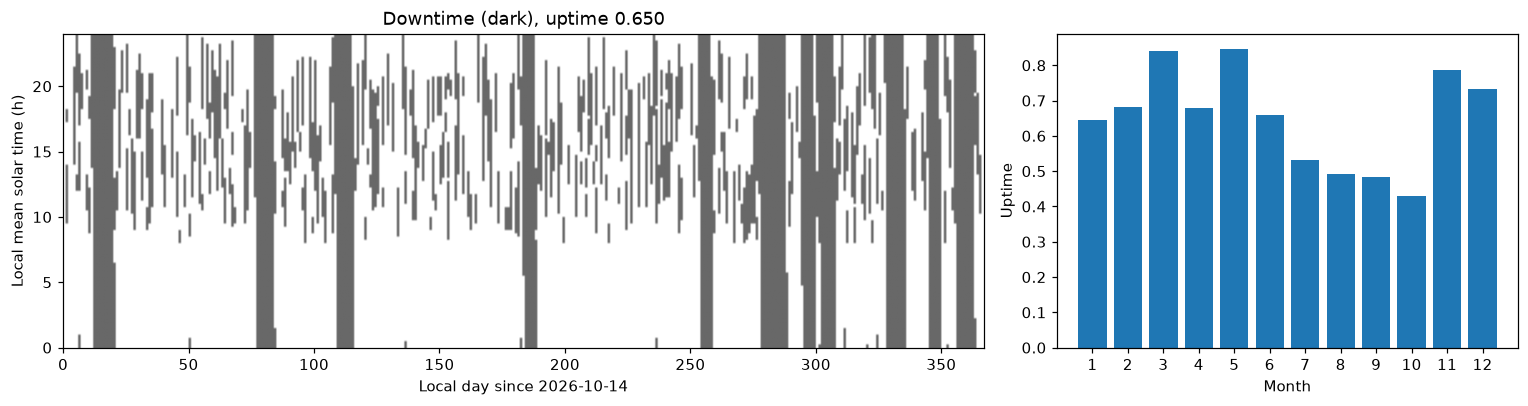
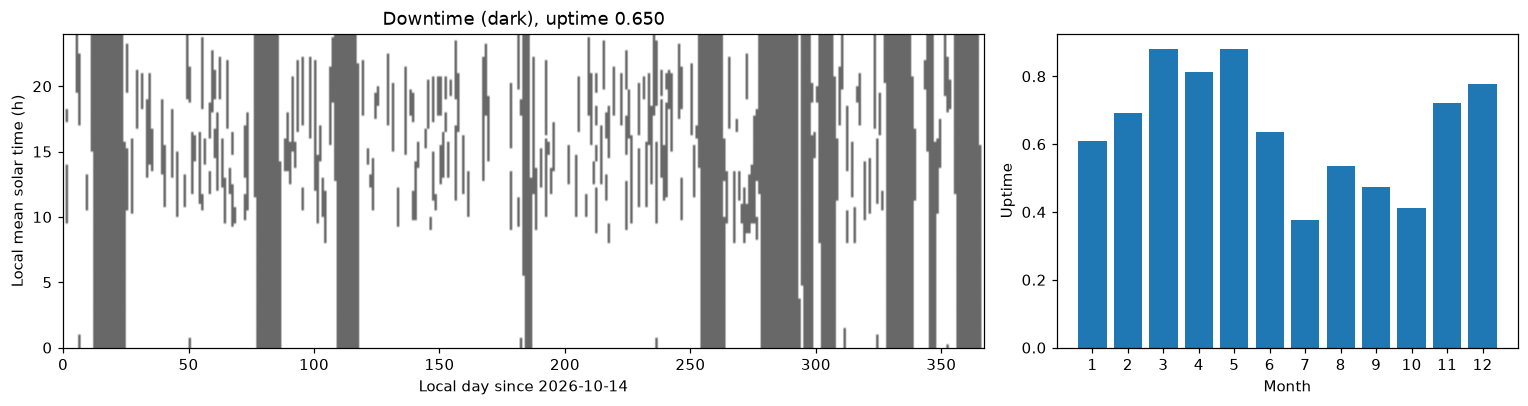
SO downtime: 75/25 outage-interruption split, 3-14 day outages

diff --git a/analysis/so_report/report.html b/analysis/so_report/report.html
@@ -26,13 +26,13 @@ mean of that crossing.</li>
 <li>Pointings are precessed (IAU 2006) from the mean equator and equinox of one epoch, mid-way through
 the year, to ICRS; over a multi-year survey this drifts by ~0.014&deg; per year. Refraction (~0.01&deg;
 at 40&deg; elevation), nutation and aberration (&lt;0.006&deg;) are ignored.</li>
-<li>Downtime: 65% uptime by default, of which 60% of the lost time is in ~week-long outages
-(5&ndash;9 days, three times more likely to start in June&ndash;September) and the rest in 1&ndash;6&nbsp;h
+<li>Downtime: 65% uptime by default, of which 75% of the lost time is in long outages
+(3&ndash;14 days, three times more likely to start in June&ndash;September) and the rest in 1&ndash;6&nbsp;h
 interruptions starting between 08:00 and 20:00 local time. Visits overlapping downtime are dropped. The
 7-day ObsTable diagnostics above the yearly plots use no downtime. No sun/moon avoidance.</li>
 <li>The az 30&ndash;150&deg; / 210&ndash;330&deg; throws limit coverage to roughly Dec &minus;59&deg; to
 +21&deg; (plus tube offsets), narrower than the full 40&deg;-elevation ring (&minus;73&deg; to +27&deg;).</li>
 </ul>
-<h2>Run summary</h2><table><tr><th>Mode</th><td>full</td></tr><tr><th>Resolution (deg) / sample interval (s)</th><td>0.5 / 0.250</td></tr><tr><th>First day scan side</th><td>east</td></tr><tr><th>Precession epoch (MJD) / uptime / downtime seed</th><td>61509.6 / 0.65 / 0</td></tr><tr><th>Tubes</th><td>0, 1, 2, 3, 4, 5, 6, 7, 8, 9, 10, 11, 12</td></tr><tr><th>Start / days</th><td>2026-10-14 / 7</td></tr><tr><th>ObsTable rows</th><td>10,389,751</td></tr><tr><th>Observed Dec range (deg)</th><td>-63.2 to 24.2</td></tr><tr><th>Per tube visit: median duration (min) / exposure (s) / passes</th><td>4.2 / 3.8 / 3.0</td></tr><tr><th>Fraction of observed (tube, pixel) seen on both crossings</th><td>0.955</td></tr><tr><th>LF: daily sky fraction mean (10-90%), no downtime / downtime</th><td>0.546 (0.457-0.635) / 0.369 (0.000-0.625)</td></tr><tr><th>LF: days per year observed (10/50/90% of area), no downtime / downtime</th><td>366 / 366 / 366 / 225 / 234 / 243</td></tr><tr><th>LF: revisit gap with downtime, median / 90% / 99% / max (days)</th><td>1.0 / 2.0 / 10.0 / 25.9</td></tr><tr><th>MF: daily sky fraction mean (10-90%), no downtime / downtime</th><td>0.559 (0.479-0.639) / 0.382 (0.000-0.632)</td></tr><tr><th>MF: days per year observed (10/50/90% of area), no downtime / downtime</th><td>366 / 366 / 366 / 231 / 238 / 247</td></tr><tr><th>MF: revisit gap with downtime, median / 90% / 99% / max (days)</th><td>1.0 / 2.0 / 10.0 / 19.9</td></tr><tr><th>UHF: daily sky fraction mean (10-90%), no downtime / downtime</th><td>0.570 (0.490-0.650) / 0.393 (0.000-0.645)</td></tr><tr><th>UHF: days per year observed (10/50/90% of area), no downtime / downtime</th><td>366 / 366 / 366 / 234 / 241 / 250</td></tr><tr><th>UHF: revisit gap with downtime, median / 90% / 99% / max (days)</th><td>1.0 / 2.0 / 10.0 / 19.9</td></tr><tr><th>all: daily sky fraction mean (10-90%), no downtime / downtime</th><td>0.574 (0.495-0.652) / 0.396 (0.000-0.646)</td></tr><tr><th>all: days per year observed (10/50/90% of area), no downtime / downtime</th><td>366 / 366 / 366 / 234 / 242 / 250</td></tr><tr><th>all: revisit gap with downtime, median / 90% / 99% / max (days)</th><td>1.0 / 2.0 / 10.0 / 19.9</td></tr><tr><th>LF: median revisit (h) / visits per day / span (min) / exposure (s)</th><td>19.52 / 1.00 / 4.22 / 3.50</td></tr><tr><th>MF: median revisit (h) / visits per day / span (min) / exposure (s)</th><td>19.87 / 1.00 / 18.03 / 29.00</td></tr><tr><th>UHF: median revisit (h) / visits per day / span (min) / exposure (s)</th><td>19.84 / 1.00 / 32.24 / 14.25</td></tr><tr><th>Pixelization |error| in duration (s): median / 90%</th><td>0.75 / 182.38</td></tr><tr><th>Pixelization |error| in exposure (s): median / 90%</th><td>0.25 / 0.75</td></tr><tr><th>Pixelization |error| in passes: median / 90%</th><td>0.00 / 1.00</td></tr><tr><th>Pixelization |error| in mean time (s): median / 90%</th><td>28.94 / 75.66</td></tr></table>
-<figure><h3>Cadence and visit length (per band)</h3><img src='cadence.png'><figcaption>Each source's successive transits alternate between its rising and setting crossing, so revisit intervals alternate between one sidereal day plus and minus the source's rising-to-setting offset (which depends on declination), giving two peaks symmetric about 24 h. Edge pixels seen on only one crossing are revisited every two days. A visit is a train of short passes (one per 2-minute azimuth sweep) over its span.</figcaption></figure><figure><h3>Validation against an exact single-point trace</h3><img src='validation.png'><figcaption>Map statistics are exact at pixel centers; the scatter here is pixelization error for arbitrary source positions. Duration is quantized by the sweep period, so off-by-one-pass errors move it by ~2 minutes.</figcaption></figure><figure><h3>Visit duration maps</h3><img src='duration_s.png'><figcaption>Visit duration, first to last in-FoV sample (min), rising crossing (setting is the mirror image).</figcaption></figure><figure><h3>Exposure maps</h3><img src='exposure_s.png'><figcaption>Time in tube FoV per visit (s), rising crossing (setting is the mirror image).</figcaption></figure><figure><h3>Passes maps</h3><img src='n_passes.png'><figcaption>Azimuth sweeps over pixel per visit, rising crossing (setting is the mirror image).</figcaption></figure><figure><h3>Observation-time maps: rising</h3><img src='time_s_east.png'><figcaption>Mean LST of each pixel's visit on rising days (east azimuth range).</figcaption></figure><figure><h3>Observation-time maps: setting</h3><img src='time_s_west.png'><figcaption>Mean LST of each pixel's visit on setting days (west azimuth range).</figcaption></figure><figure><h3>Downtime realization</h3><img src='downtime.png'><figcaption>One random year of downtime for 65% uptime: about week-long outages, preferentially June&ndash;September, plus interruptions of a few hours starting during local daytime.</figcaption></figure><figure><h3>One year of coverage with downtime</h3><img src='year_coverage.png'><figcaption>From left: fraction of the full sky observed on each UTC day (grey: no downtime); area-weighted days per year each footprint pixel is observed (dotted: no downtime); area-weighted revisit gaps between observed transit days (one sidereal day when nothing is lost; longer gaps come from downtime and edge pixels seen on one crossing only); days observed per year, any band. Sun/moon avoidance is not modeled.</figcaption></figure><figure><h3>Coverage union</h3><img src='coverage.png'><figcaption>Number of tubes that observe each pixel on a rising day and on a setting day.</figcaption></figure><figure><h3>Tube layout</h3><img src='layout.png'><figcaption>Hex focal plane; circles are 1.25&deg; fields of view.</figcaption></figure><figure><h3>ObsTable checks</h3><img src='table_checks.png'><figcaption>Rows per (tube, pixel, day), and example cadence.</figcaption></figure><figure><h3>Previous implementation (for comparison)</h3><img src='before.png'><figcaption>Analytic model output.</figcaption></figure>
+<h2>Run summary</h2><table><tr><th>Mode</th><td>full</td></tr><tr><th>Resolution (deg) / sample interval (s)</th><td>0.5 / 0.250</td></tr><tr><th>First day scan side</th><td>east</td></tr><tr><th>Precession epoch (MJD) / uptime / downtime seed</th><td>61509.6 / 0.65 / 0</td></tr><tr><th>Tubes</th><td>0, 1, 2, 3, 4, 5, 6, 7, 8, 9, 10, 11, 12</td></tr><tr><th>Start / days</th><td>2026-10-14 / 7</td></tr><tr><th>ObsTable rows</th><td>10,389,751</td></tr><tr><th>Observed Dec range (deg)</th><td>-63.2 to 24.2</td></tr><tr><th>Per tube visit: median duration (min) / exposure (s) / passes</th><td>4.2 / 3.8 / 3.0</td></tr><tr><th>Fraction of observed (tube, pixel) seen on both crossings</th><td>0.955</td></tr><tr><th>LF: daily sky fraction mean (10-90%), no downtime / downtime</th><td>0.546 (0.457-0.635) / 0.366 (0.000-0.633)</td></tr><tr><th>LF: days per year observed (10/50/90% of area), no downtime / downtime</th><td>366 / 366 / 366 / 228 / 237 / 243</td></tr><tr><th>LF: revisit gap with downtime, median / 90% / 99% / max (days)</th><td>1.0 / 2.0 / 12.0 / 31.9</td></tr><tr><th>MF: daily sky fraction mean (10-90%), no downtime / downtime</th><td>0.559 (0.479-0.639) / 0.378 (0.000-0.639)</td></tr><tr><th>MF: days per year observed (10/50/90% of area), no downtime / downtime</th><td>366 / 366 / 366 / 232 / 239 / 245</td></tr><tr><th>MF: revisit gap with downtime, median / 90% / 99% / max (days)</th><td>1.0 / 2.0 / 12.0 / 31.9</td></tr><tr><th>UHF: daily sky fraction mean (10-90%), no downtime / downtime</th><td>0.570 (0.490-0.650) / 0.388 (0.000-0.649)</td></tr><tr><th>UHF: days per year observed (10/50/90% of area), no downtime / downtime</th><td>366 / 366 / 366 / 234 / 241 / 247</td></tr><tr><th>UHF: revisit gap with downtime, median / 90% / 99% / max (days)</th><td>1.0 / 2.0 / 12.0 / 31.9</td></tr><tr><th>all: daily sky fraction mean (10-90%), no downtime / downtime</th><td>0.574 (0.495-0.652) / 0.390 (0.000-0.652)</td></tr><tr><th>all: days per year observed (10/50/90% of area), no downtime / downtime</th><td>366 / 366 / 366 / 235 / 241 / 247</td></tr><tr><th>all: revisit gap with downtime, median / 90% / 99% / max (days)</th><td>1.0 / 2.0 / 12.0 / 31.9</td></tr><tr><th>LF: median revisit (h) / visits per day / span (min) / exposure (s)</th><td>19.52 / 1.00 / 4.22 / 3.50</td></tr><tr><th>MF: median revisit (h) / visits per day / span (min) / exposure (s)</th><td>19.87 / 1.00 / 18.03 / 29.00</td></tr><tr><th>UHF: median revisit (h) / visits per day / span (min) / exposure (s)</th><td>19.84 / 1.00 / 32.24 / 14.25</td></tr><tr><th>Pixelization |error| in duration (s): median / 90%</th><td>0.75 / 182.38</td></tr><tr><th>Pixelization |error| in exposure (s): median / 90%</th><td>0.25 / 0.75</td></tr><tr><th>Pixelization |error| in passes: median / 90%</th><td>0.00 / 1.00</td></tr><tr><th>Pixelization |error| in mean time (s): median / 90%</th><td>28.94 / 75.66</td></tr></table>
+<figure><h3>Cadence and visit length (per band)</h3><img src='cadence.png'><figcaption>Each source's successive transits alternate between its rising and setting crossing, so revisit intervals alternate between one sidereal day plus and minus the source's rising-to-setting offset (which depends on declination), giving two peaks symmetric about 24 h. Edge pixels seen on only one crossing are revisited every two days. A visit is a train of short passes (one per 2-minute azimuth sweep) over its span.</figcaption></figure><figure><h3>Validation against an exact single-point trace</h3><img src='validation.png'><figcaption>Map statistics are exact at pixel centers; the scatter here is pixelization error for arbitrary source positions. Duration is quantized by the sweep period, so off-by-one-pass errors move it by ~2 minutes.</figcaption></figure><figure><h3>Visit duration maps</h3><img src='duration_s.png'><figcaption>Visit duration, first to last in-FoV sample (min), rising crossing (setting is the mirror image).</figcaption></figure><figure><h3>Exposure maps</h3><img src='exposure_s.png'><figcaption>Time in tube FoV per visit (s), rising crossing (setting is the mirror image).</figcaption></figure><figure><h3>Passes maps</h3><img src='n_passes.png'><figcaption>Azimuth sweeps over pixel per visit, rising crossing (setting is the mirror image).</figcaption></figure><figure><h3>Observation-time maps: rising</h3><img src='time_s_east.png'><figcaption>Mean LST of each pixel's visit on rising days (east azimuth range).</figcaption></figure><figure><h3>Observation-time maps: setting</h3><img src='time_s_west.png'><figcaption>Mean LST of each pixel's visit on setting days (west azimuth range).</figcaption></figure><figure><h3>Downtime realization</h3><img src='downtime.png'><figcaption>One random year of downtime for 65% uptime: outages of 3&ndash;14 days, preferentially June&ndash;September, plus few-hour interruptions starting in local daytime.</figcaption></figure><figure><h3>One year of coverage with downtime</h3><img src='year_coverage.png'><figcaption>From left: fraction of the full sky observed on each UTC day (grey: no downtime); area-weighted days per year each footprint pixel is observed (dotted: no downtime); area-weighted revisit gaps between observed transit days (one sidereal day when nothing is lost; longer gaps come from downtime and edge pixels seen on one crossing only); days observed per year, any band. Sun/moon avoidance is not modeled.</figcaption></figure><figure><h3>Coverage union</h3><img src='coverage.png'><figcaption>Number of tubes that observe each pixel on a rising day and on a setting day.</figcaption></figure><figure><h3>Tube layout</h3><img src='layout.png'><figcaption>Hex focal plane; circles are 1.25&deg; fields of view.</figcaption></figure><figure><h3>ObsTable checks</h3><img src='table_checks.png'><figcaption>Rows per (tube, pixel, day), and example cadence.</figcaption></figure><figure><h3>Previous implementation (for comparison)</h3><img src='before.png'><figcaption>Analytic model output.</figcaption></figure>
 </body></html>

diff --git a/analysis/visualize_simons_observatory_obstable.py b/analysis/visualize_simons_observatory_obstable.py
@@ -690,8 +690,8 @@ mean of that crossing.</li>
 <li>Pointings are precessed (IAU 2006) from the mean equator and equinox of one epoch, mid-way through
 the year, to ICRS; over a multi-year survey this drifts by ~0.014&deg; per year. Refraction (~0.01&deg;
 at 40&deg; elevation), nutation and aberration (&lt;0.006&deg;) are ignored.</li>
-<li>Downtime: 65% uptime by default, of which 60% of the lost time is in ~week-long outages
-(5&ndash;9 days, three times more likely to start in June&ndash;September) and the rest in 1&ndash;6&nbsp;h
+<li>Downtime: 65% uptime by default, of which 75% of the lost time is in long outages
+(3&ndash;14 days, three times more likely to start in June&ndash;September) and the rest in 1&ndash;6&nbsp;h
 interruptions starting between 08:00 and 20:00 local time. Visits overlapping downtime are dropped. The
 7-day ObsTable diagnostics above the yearly plots use no downtime. No sun/moon avoidance.</li>
 <li>The az 30&ndash;150&deg; / 210&ndash;330&deg; throws limit coverage to roughly Dec &minus;59&deg; to
@@ -768,8 +768,8 @@ def main():
     add(
         "downtime",
         "Downtime realization",
-        f"One random year of downtime for {args.uptime:.0%} uptime: about week-long outages, preferentially"
-        " June&ndash;September, plus interruptions of a few hours starting during local daytime.",
+        f"One random year of downtime for {args.uptime:.0%} uptime: outages of 3&ndash;14 days,"
+        " preferentially June&ndash;September, plus few-hour interruptions starting in local daytime.",
         plot_downtime,
         downtime,
         args.start,

diff --git a/src/lightcurvelynx/obstable/simons_observatory_obstable.py b/src/lightcurvelynx/obstable/simons_observatory_obstable.py
@@ -653,8 +653,8 @@ def simulate_downtime(
     n_days,
     *,
     uptime=0.65,
-    chunk_fraction=0.6,
-    chunk_days=(5.0, 9.0),
+    chunk_fraction=0.75,
+    chunk_days=(3.0, 14.0),
     chunk_months=(6, 7, 8, 9),
     chunk_season_weight=3.0,
     gap_hours=(1.0, 6.0),
@@ -663,7 +663,7 @@ def simulate_downtime(
 ):
     """Draw random instrument downtime intervals.
 
-    Downtime has two parts: long outages of about a week, preferentially in the austral winter
+    Downtime has two parts: long outages of days to weeks, preferentially in the austral winter
     (June-September), and scattered interruptions of a few hours that start during local daytime.
     Outages are added until they cover ``chunk_fraction`` of the downtime budget, then
     interruptions until the total downtime reaches ``(1 - uptime) * n_days``.

diff --git a/tests/lightcurvelynx/obstable/test_simons_observatory_obstable.py b/tests/lightcurvelynx/obstable/test_simons_observatory_obstable.py
@@ -266,7 +266,7 @@ def test_simulate_downtime():
     assert 1.0 - lengths.sum() / 365.25 == pytest.approx(0.65, abs=1e-6)
     assert np.all(downtime[1:, 0] > downtime[:-1, 1])
     long = lengths > 2.0
-    assert lengths[long].sum() / 365.25 == pytest.approx(0.35 * 0.6, abs=0.05)
+    assert lengths[long].sum() / 365.25 == pytest.approx(0.35 * 0.75, abs=0.05)
     winter = np.isin(Time(downtime[long, 0], format="mjd").ymdhms.month, (6, 7, 8, 9))
     assert winter.mean() > 4 / 12
     local_hour = ((downtime[~long, 0] + SO_LONGITUDE_DEG / 360.0) % 1.0) * 24.0
